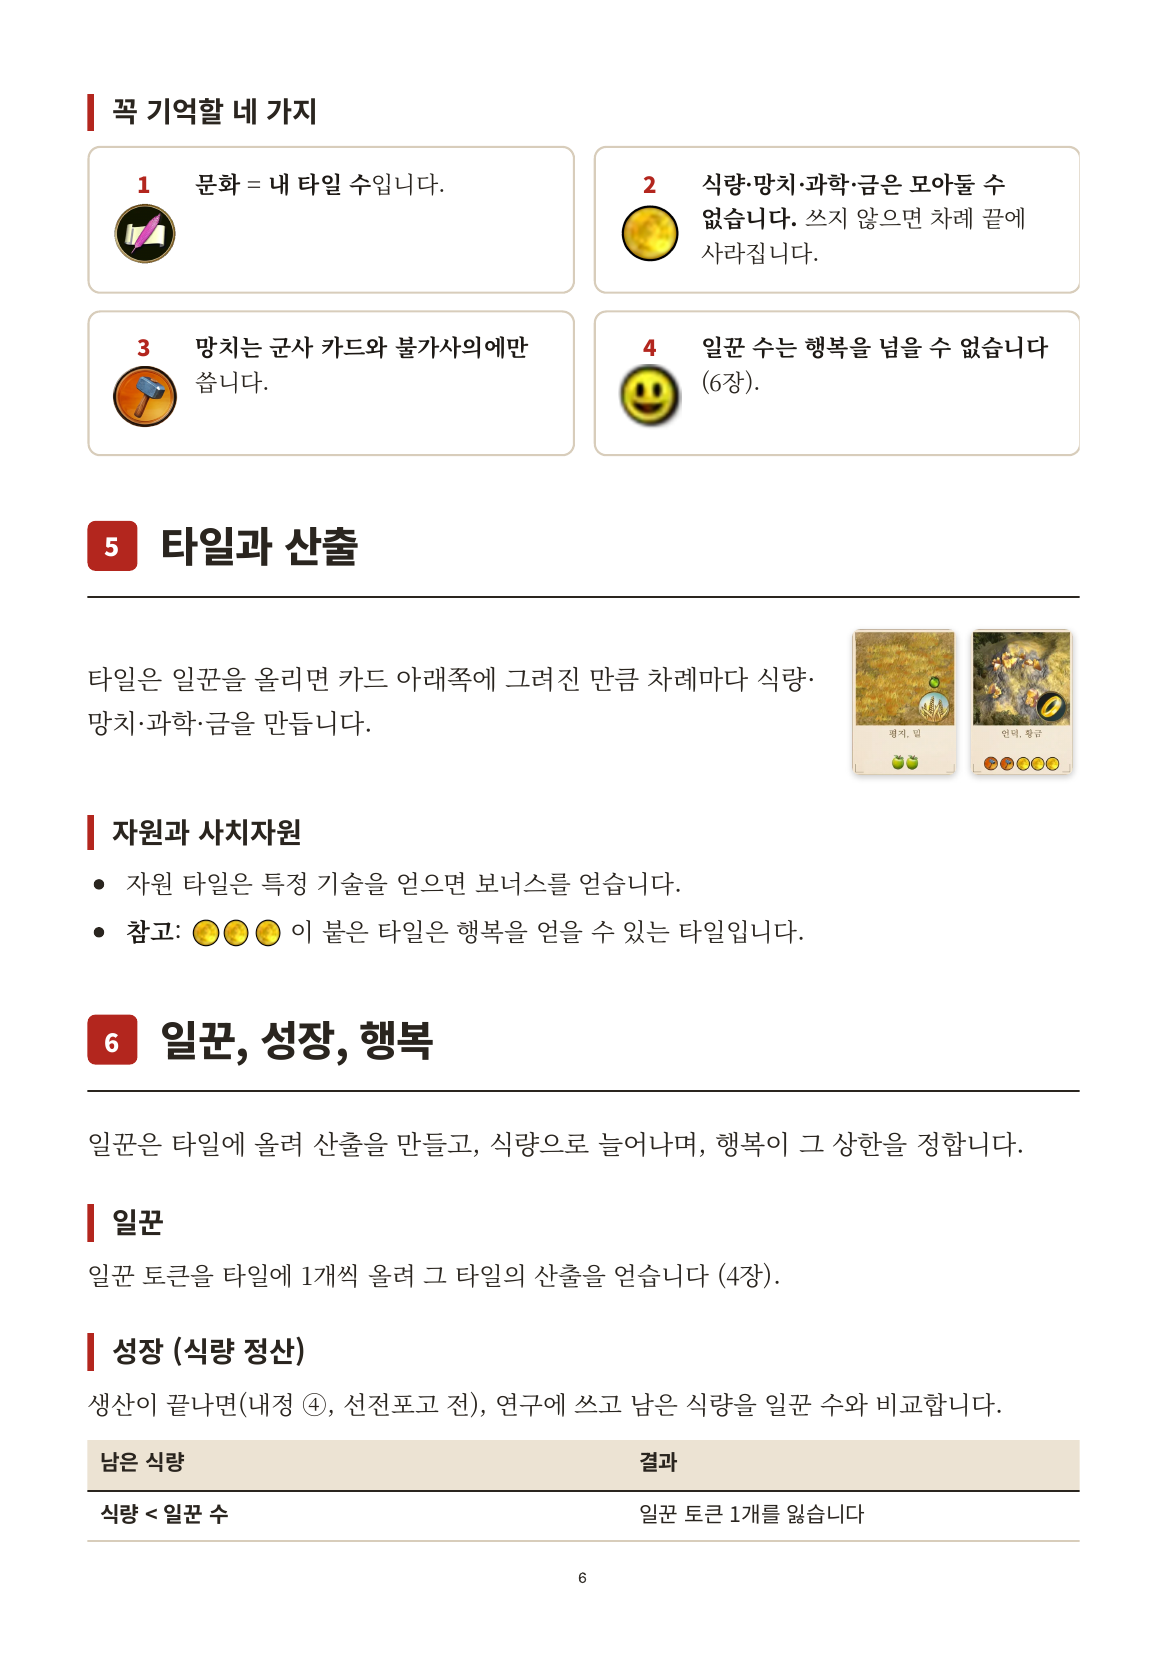
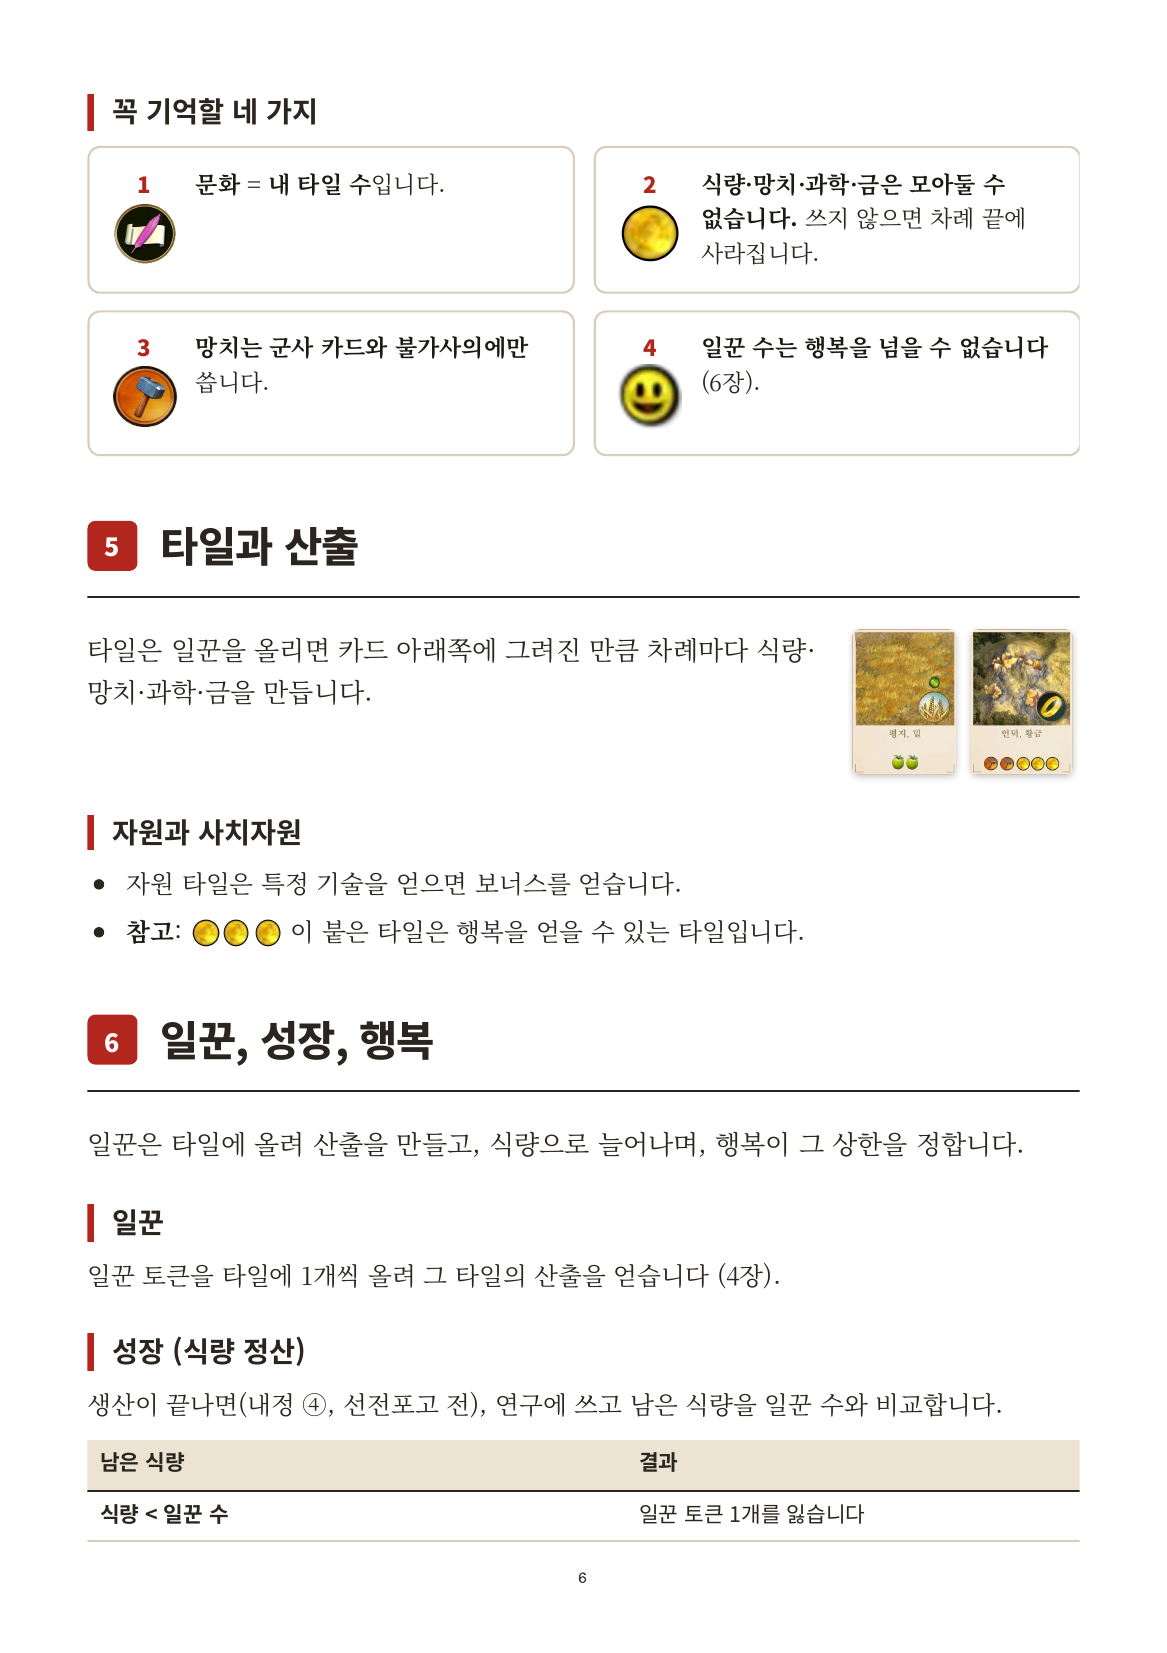
규칙서 5장: 첫 문장을 제목 바로 아래로 (타일 그림 옆 가운데 정렬 → 위 정렬)
Claude-Session: https://claude.ai/code/session_01LEwiRiXRJPjckZxHM1aEbm

diff --git a/docs/rulebook/source/part1.html b/docs/rulebook/source/part1.html
@@ -177,7 +177,7 @@
 <!-- 5장 -->
 <section class="ch" id="ch5">
   <header class="chhead"><span class="num">5</span><h1>타일과 산출</h1></header>
-  <div class="two" style="grid-template-columns: 1fr 30mm; align-items:center">
+  <div class="two" style="grid-template-columns: 1fr 30mm; align-items:start">
     <p class="lead" style="margin:0">타일은 일꾼을 올리면 카드 아래쪽에 그려진 만큼 차례마다 식량·망치·과학·금을 만듭니다.</p>
     <div class="cards"><div class="cd"><img src="assets/tile/24.webp" style="width:13mm"></div><div class="cd"><img src="assets/tile/74.webp" style="width:13mm"></div></div>
   </div>
